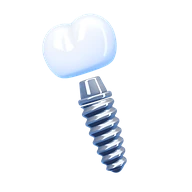
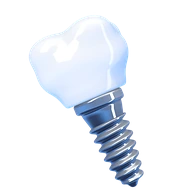
Implante con corona de muela, franja de la especialidad en azul vivo y cierre con invitación a reservar
- La imagen del implante lleva ahora una corona de muela, con sus cúspides y su cuello, en sus tres tamaños.
- La franja "Nuestra especialidad" pasa del azul noche a un azul vivo que se aclara hacia la derecha, con dos
  discos de luz detrás de la imagen y dos ondas claras en la esquina. La imagen va también en 960 px para las
  pantallas de más detalle, y en el celular ya no queda cortada por abajo.
- El pie lo abre una franja que invita a reservar ("Tu salud bucal, en buenas manos"), montada sobre su borde.
  En pantallas anchas la marca va a la izquierda y el contacto y las páginas a su lado.
- Contacto ya no repite la invitación en una tarjeta aparte.

Changed region(s): [[0.125, 0.0938, 0.75, 1.0], [0.3438, 0.125, 0.375, 0.1562], [0.2188, 0.25, 0.25, 0.2812]]

diff --git a/public/css/sitio.css b/public/css/sitio.css
@@ -169,13 +169,33 @@ main { padding: 24px 0 96px; flex: 1 0 auto; }
 main.with-hero { padding-top: 0; background: linear-gradient(180deg, var(--mist) 0, var(--mist) 45%, var(--ground) 100%) no-repeat top / 100% 2400px; }
 main.with-hero > .wrap:first-child .flash { margin: 16px 0; }
 
-/* El pie, en el azul de la portada: la marca y "Reservar cita" arriba; al medio, lo justo para ubicarse y las páginas; lo legal abajo. */
-.site-footer { position: relative; isolation: isolate; overflow: hidden; background: linear-gradient(120deg, #06173a 0%, #0a2757 62%, #0e3c84 100%); color: #c9d6e8; padding: 48px 0; margin-top: 24px; }
-.site-footer::before {
-    content: ""; position: absolute; z-index: -1; width: 720px; height: 720px; right: -220px; bottom: -520px; border-radius: 50%;
-    background: radial-gradient(closest-side, rgb(64 140 240 / .5), transparent);
+/*
+   El pie, en el azul de la portada. Lo abre la invitación a reservar, en una franja de azul vivo que monta sobre su
+   borde; debajo, la marca, lo justo para ubicarse y las páginas; lo legal al final.
+*/
+.site-footer {
+    position: relative; color: #c9d6e8; padding: 0 0 48px; margin-top: 56px;
+    background: radial-gradient(circle 360px at calc(100% - 140px) calc(100% + 160px), rgb(64 140 240 / .5), transparent), linear-gradient(120deg, #06173a 0%, #0a2757 62%, #0e3c84 100%);
 }
 .site-footer .wrap { display: grid; gap: 28px; }
+.footer-cta {
+    --wave: 120px; --swell: 210px;
+    display: grid; grid-template-columns: 56px minmax(0, 1fr); align-items: center; gap: 16px; margin: -56px 0 4px; padding: 20px; border-radius: 24px; color: #fff;
+    background:
+        radial-gradient(circle var(--wave) at calc(100% + 10px) calc(100% + var(--wave) * .42), #5c9df5 calc(var(--wave) - 1px), transparent var(--wave)),
+        radial-gradient(circle var(--swell) at calc(100% - var(--swell) * .18) calc(100% + var(--swell) * .58), rgb(74 141 240 / .5) calc(var(--swell) - 1px), transparent var(--swell)),
+        linear-gradient(100deg, #0a2977 0%, #0c3a9f 46%, #1c62d6 100%);
+    box-shadow: 0 24px 40px -24px rgb(3 12 32 / .8);
+}
+.footer-cta img { width: 72px; max-width: none; height: auto; margin: -8px; filter: drop-shadow(0 8px 10px rgb(0 0 0 / .3)); }
+.site-footer .footer-cta p { margin: 0; color: #e3ecff; }
+.footer-cta strong { display: block; margin-bottom: 4px; text-wrap: balance; font: 700 clamp(1.1875rem, 2.6vw, 1.625rem)/1.2 var(--display); letter-spacing: -.02em; color: #fff; }
+.footer-cta .btn { grid-column: 1 / -1; background: #fff; color: var(--ink); }
+@media (min-width: 720px) {
+    .footer-cta { --wave: 150px; --swell: 260px; grid-template-columns: 84px minmax(0, 1fr) auto; gap: 24px; padding: 26px 40px; border-radius: 28px; }
+    .footer-cta img { width: 112px; margin: -14px; }
+    .footer-cta .btn { grid-column: auto; min-width: 200px; }
+}
 .footer-top { display: flex; flex-wrap: wrap; align-items: center; justify-content: space-between; gap: 16px 24px; }
 .site-footer .name { display: flex; align-items: center; gap: 12px; font-size: clamp(1.25rem, 3.4vw, 1.5rem); font-weight: 800; letter-spacing: -.025em; line-height: 1.1; color: #fff; margin: 0; }
 .site-footer .mark { width: 48px; height: 48px; color: #fff; }
@@ -198,20 +218,31 @@ main.with-hero > .wrap:first-child .flash { margin: 16px 0; }
 .footer-cols { display: grid; gap: 28px; padding-top: 28px; border-top: 1px solid rgb(255 255 255 / .14); }
 .footer-contact p:last-child { margin-bottom: 0; }
 @media (min-width: 720px) { .footer-cols { grid-template-columns: minmax(0, 1.1fr) minmax(0, 1fr); gap: 28px 64px; } }
+/* En pantallas anchas la marca va a la izquierda y lo demás a su lado: el pie no deja media franja vacía. */
+@media (min-width: 960px) {
+    .site-footer .wrap { grid-template-columns: auto minmax(0, 1fr); column-gap: 72px; }
+    .footer-cta, .footer-bottom { grid-column: 1 / -1; }
+    .footer-top { align-self: start; }
+    .footer-cols { padding-top: 0; border-top: 0; }
+}
 
 /* Pie corto donde la página ya dio la dirección, el horario y el WhatsApp: el nombre y las páginas, en una fila. */
-.site-footer.short { padding: 40px 0 40px; }
+.site-footer.short { padding-bottom: 40px; }
 .site-footer.short .wrap { gap: 20px; }
 .site-footer.short .footer-cols { padding-top: 20px; }
 .site-footer.short .footer-cols { display: block; }
 .site-footer.short nav h2 { position: absolute; width: 1px; height: 1px; overflow: hidden; clip: rect(0 0 0 0); white-space: nowrap; }
 .site-footer .socials { margin: 16px 0 0; }
+@media (min-width: 960px) {
+    .site-footer.short .footer-top { align-self: center; }
+    .site-footer.short .footer-cols { padding-top: 0; align-self: center; justify-self: end; }
+    .site-footer.short ul, .site-footer.short .socials { justify-content: flex-end; }
+}
 
 /* Pie mínimo mientras se reserva: nombre, ayuda por WhatsApp y privacidad. */
-.site-footer.minimal { padding: 28px 0; }
+.site-footer.minimal { padding: 28px 0; margin-top: 24px; background: linear-gradient(120deg, #06173a 0%, #0a2757 62%, #0e3c84 100%); }
 .site-footer.minimal .wrap { display: flex; flex-wrap: wrap; align-items: baseline; gap: 8px 24px; }
 .site-footer.minimal .name { font-size: 1.25rem; margin-right: auto; }
-.site-footer.minimal::before { display: none; }
 .site-footer.minimal p { margin: 0; }
 
 /* Tipografía */
@@ -781,26 +812,38 @@ a.rating > span:last-child { text-decoration: underline; text-decoration-color: 
     .how-art { display: block; width: 250px; max-width: none; height: auto; margin: -24px 0 -24px -24px; filter: drop-shadow(0 22px 22px rgb(11 31 58 / .22)); }
 }
 
-/* Nuestra especialidad: una franja azul noche con la imagen del tratamiento, que en pantallas anchas sobresale de la franja. */
+/*
+   Nuestra especialidad: una franja en azul vivo, más claro hacia la derecha, con la imagen del tratamiento, que en
+   pantallas anchas sobresale por arriba. Detrás de la imagen, dos discos de luz; en la esquina, dos ondas claras.
+   Los cuatro adornos se achican juntos en el celular (--k).
+*/
 .feature {
+    --k: .7; --disc: 50% calc(100% - 134px);
+    --wave: calc(190px * var(--k)); --swell: calc(330px * var(--k)); --halo: calc(150px * var(--k)); --ring: calc(230px * var(--k));
     position: relative; overflow: hidden; display: grid; gap: 8px; padding: 28px 24px 0; border-radius: 28px; color: #fff;
-    background: radial-gradient(circle 260px at calc(100% - 100px) 60px, rgb(64 128 214 / .6), transparent), linear-gradient(118deg, #06173a 0%, #0a2757 52%, #0e3c84 100%);
+    background:
+        radial-gradient(circle var(--wave) at calc(100% + 10px) calc(100% + var(--wave) * .42), #5c9df5 calc(var(--wave) - 1px), transparent var(--wave)),
+        radial-gradient(circle var(--swell) at calc(100% - var(--swell) * .18) calc(100% + var(--swell) * .58), rgb(74 141 240 / .5) calc(var(--swell) - 1px), transparent var(--swell)),
+        radial-gradient(circle var(--halo) at var(--disc), rgb(255 255 255 / .1) calc(var(--halo) - 1px), transparent var(--halo)),
+        radial-gradient(circle var(--ring) at var(--disc), rgb(255 255 255 / .07) calc(var(--ring) - 1px), transparent var(--ring)),
+        linear-gradient(100deg, #0a2977 0%, #0c3a9f 46%, #1c62d6 100%);
 }
 .feature > div { display: grid; gap: 8px; justify-items: start; }
 .feature p { margin: 0; }
-.feature .kicker { font-size: .8125rem; font-weight: 700; letter-spacing: .08em; text-transform: uppercase; color: var(--navy-soft); }
+.feature .kicker { font-size: .8125rem; font-weight: 700; letter-spacing: .08em; text-transform: uppercase; color: #c3d8ff; }
 .feature h2 { font-size: clamp(1.75rem, 4.2vw, 2.5rem); font-weight: 750; letter-spacing: -.025em; line-height: 1.12; max-width: 15ch; }
-.feature h2 + p { margin: 6px 0 12px; color: #c9d6e8; max-width: 44ch; }
+.feature h2 + p { margin: 6px 0 12px; color: #e3ecff; max-width: 44ch; }
 .feature .btn { background: #fff; color: var(--ink); }
 /* En los celulares más angostos (320) el botón entra en una línea sin su flecha. */
 @media (max-width: 379px) { .feature .btn svg { display: none; } }
-.feature img { justify-self: center; width: 240px; height: auto; margin: 0 0 -20px; filter: drop-shadow(0 24px 24px rgb(0 0 0 / .35)); }
+.feature img { justify-self: center; width: 240px; height: auto; margin: -4px 0 10px; filter: drop-shadow(0 12px 14px rgb(0 0 0 / .32)); }
 @media (min-width: 640px) {
-    .feature { grid-template-columns: 1.2fr 1fr; align-items: center; padding: 40px; overflow: visible; }
+    /* La imagen sale por arriba; por abajo se recorta con la franja, para que su sombra no caiga fuera. */
+    .feature { --k: .86; --disc: calc(100% - 190px) 50%; grid-template-columns: 1.2fr 1fr; align-items: center; padding: 40px; overflow: visible; clip-path: inset(-240px 0 0 round 0 0 28px 28px); }
     .feature img { width: 300px; margin: -92px 0 -68px; filter: drop-shadow(0 14px 16px rgb(0 0 0 / .32)); }
 }
 @media (min-width: 900px) {
-    .feature { padding: 56px; }
+    .feature { --k: 1; --disc: calc(100% - 290px) 50%; padding: 56px; }
     .feature img { width: 400px; margin: -148px 0 -84px; }
 }
 
@@ -1106,8 +1149,7 @@ a.chip { text-decoration: none; display: inline-flex; align-items: center; }
     body:has(.action-bar) .site-header .btn,
     body:has(.action-bar) .hero .row,
     body:has(.action-bar) .quick-actions .in-bar,
-    body:has(.action-bar) .how-band .section-head .btn,
-    body:has(.action-bar) .footer-top .btn { display: none; }
+    body:has(.action-bar) .how-band .section-head .btn { display: none; }
     body:has(.action-bar) .quick .next-free .more { display: inline-block; }
     body:has(.action-bar) .hero .lead { margin-bottom: 0; }
     body:has(.action-bar) .hero .rating { margin: 14px 0 0; }
@@ -1140,7 +1182,7 @@ a.chip { text-decoration: none; display: inline-flex; align-items: center; }
     .free-times a:hover { background: #d6e3f5; }
     .promo-card:hover { background: var(--surface-strong); }
     .price-list a:hover { box-shadow: inset 0 0 0 2px var(--accent); }
-    .feature .btn:hover { background: var(--surface-strong); }
+    :is(.feature, .footer-cta) .btn:hover { background: var(--surface-strong); }
     .price-list a:hover .name, .promo-card:hover strong { text-decoration: underline; text-underline-offset: .15em; text-decoration-thickness: 1px; }
     .promo-band:hover strong { text-decoration: underline; text-underline-offset: .15em; }
     .faqs summary:hover { color: var(--accent); }

diff --git a/tests/Feature/Http/Controllers/Site/PublicPagesTest.php b/tests/Feature/Http/Controllers/Site/PublicPagesTest.php
@@ -303,13 +303,16 @@ class PublicPagesTest extends TestCase
             ->assertSee('<span class="brand">'.Setting::get('clinic.name').'</span>', false)
             ->assertDontSee('Dentistas en');
 
-        // El pie: la marca con "Reservar cita", las redes cargadas como íconos con su nombre, y lo legal al final.
+        // El pie: lo abre la invitación a reservar; debajo, la marca, las redes cargadas como íconos con su nombre, y lo legal al final.
         $this->get(route('site.team'))
             ->assertOk()
             ->assertSeeInOrder(['class="site-nav"', 'Inicio</a>', 'aria-current="page"', 'Equipo</a>'], false)
             ->assertSeeInOrder([
+                'class="footer-cta"',
+                '<img src="'.SiteArt::url('diente-320').'" alt=""',
+                'Tu salud bucal, en buenas manos',
+                '<a href="'.route('site.booking').'" class="btn">Reservar cita<svg',
                 'class="footer-top"',
-                '<a href="'.route('site.booking').'" class="btn ghost">',
                 'El consultorio',
                 '<a href="https://instagram.com/consultorio" rel="noopener" target="_blank" aria-label="Instagram" title="Instagram"><svg',
                 '<a href="https://tiktok.com/@consultorio" rel="noopener" target="_blank" aria-label="TikTok" title="TikTok"><svg',
@@ -338,8 +341,12 @@ class PublicPagesTest extends TestCase
             ->assertSeeInOrder([
                 'Nuestra especialidad', '<h2 id="especialidad">Implante dental</h2>', 'Reemplaza un diente perdido.',
                 '<a href="'.route('site.treatment', 'implante').'" class="btn">Conocer el tratamiento<svg',
-                '<img src="'.SiteArt::url('implante').'"', 'Quién te atiende',
+                // La imagen va en grande: lleva también su tamaño de más detalle.
+                '<img src="'.SiteArt::url('implante').'" srcset="'.SiteArt::url('implante').' 640w, '.SiteArt::url('implante-960').' 960w"', 'Quién te atiende',
             ], false);
+
+        // Solo las imágenes de especialidad tienen ese tamaño: cualquier otra iría en el suyo.
+        $this->assertStringNotContainsString('srcset', (string) SiteArt::feature(Treatment::factory()->make(['name' => 'Limpieza dental', 'slug' => 'limpieza'])));
 
         // Si el consultorio no publica ese tratamiento, la franja no aparece.
         $implant->update(['is_public' => false]);
@@ -543,7 +550,9 @@ class PublicPagesTest extends TestCase
             ->assertSee('Escríbenos por WhatsApp')
             ->assertSee('Política de privacidad')
             ->assertDontSee('El consultorio')
-            ->assertDontSee('class="footer-contact"', false);
+            ->assertDontSee('class="footer-contact"', false)
+            // Ya está reservando: el pie no lo vuelve a invitar.
+            ->assertDontSee('class="footer-cta"', false);
     }
 
     public function test_only_published_content_reaches_the_web(): void
@@ -784,8 +793,8 @@ class PublicPagesTest extends TestCase
             ->assertSee('<h1 id="contacto">Contacto</h1>', false)
             ->assertSee('Lunes a sábado')
             ->assertSee("3:00\u{A0}p.\u{A0}m. – 7:00\u{A0}p.\u{A0}m.")
-            // "Cómo llegar" sale una vez, bajo el mapa, y el pie no repite la dirección.
-            ->assertSeeInOrder(['class="map"', '>Cómo llegar</a>'], false)
+            // "Cómo llegar" sale una vez, bajo el mapa, y el pie no repite la dirección: lo abre la invitación a reservar.
+            ->assertSeeInOrder(['class="map"', '>Cómo llegar</a>', 'class="footer-cta"', 'Reservar cita<svg'], false)
             ->assertDontSee('class="footer-contact"', false)
             // El correo, que antes solo estaba en el pie, no se pierde.
             ->assertSee('href="mailto:citas@consultorio.test"', false)

diff --git a/resources/views/components/site-layout.blade.php b/resources/views/components/site-layout.blade.php
@@ -13,6 +13,7 @@
 @php
     use App\Services\Web\ClinicInfo;
     use App\Support\Phone;
+    use App\Support\SiteArt;
     use App\Support\SiteIcon;
     use App\Support\TreatmentIcon;
 
@@ -160,12 +161,17 @@
 @else
 <footer @class(['site-footer', 'short' => ! $footerContact])>
     <div class="wrap wide">
+        {{-- El cierre de cada página: la invitación a reservar, en una franja que monta sobre el borde del pie. --}}
+        <div class="footer-cta">
+            <img src="{{ SiteArt::url('diente-320') }}" alt="" width="320" height="320" loading="lazy" decoding="async">
+            <p><strong>Tu salud bucal, en buenas manos</strong> Reserva tu cita hoy y luce una sonrisa saludable.</p>
+            <a href="{{ route('site.booking') }}" class="btn">Reservar cita{{ SiteIcon::svg('arrow-right') }}</a>
+        </div>
         <div class="footer-top">
             <p class="name">
                 <span class="mark">{{ TreatmentIcon::svg('tooth') }}</span>
                 <span class="brand">{{ $name }}@if ($tagline)<small>{{ $tagline }}</small>@endif</span>
             </p>
-            <a href="{{ route('site.booking') }}" class="btn ghost">{{ SiteIcon::svg('calendar') }}Reservar cita</a>
         </div>
         <div class="footer-cols">
             {{-- Lo justo para ubicarse: dónde queda, si está abierto y cómo escribir. El horario completo y el mapa están en Contacto. --}}

diff --git a/app/Support/SiteArt.php b/app/Support/SiteArt.php
@@ -12,7 +12,7 @@ use Illuminate\Support\HtmlString;
 final class SiteArt
 {
     /** Sube cuando se reemplaza alguna imagen: el celular las guarda un mes. */
-    private const VERSION = 2;
+    private const VERSION = 3;
 
     /** @var array<string, string> Ícono del tratamiento (TreatmentIcon) → su imagen. */
     private const BY_ICON = [
@@ -86,6 +86,25 @@ final class SiteArt
             e(self::url($key)),
             $size,
             $lazy ? ' loading="lazy"' : '',
+        ));
+    }
+
+    /**
+     * La imagen de la franja "Nuestra especialidad", que la muestra en grande: va en dos tamaños para que se vea
+     * nítida también en las pantallas de más detalle. Solo las imágenes de especialidad tienen el tamaño grande.
+     * Es un adorno junto al nombre: va sin texto alternativo.
+     */
+    public static function feature(Treatment $treatment): HtmlString
+    {
+        $key = self::keyFor($treatment);
+        $sizes = in_array($key, self::SPECIALTIES, true)
+            ? sprintf(' srcset="%s 640w, %s 960w" sizes="(min-width: 900px) 400px, (min-width: 640px) 300px, 240px"', e(self::url($key)), e(self::url($key.'-960')))
+            : '';
+
+        return new HtmlString(sprintf(
+            '<img src="%s"%s width="640" height="640" alt="" loading="lazy" decoding="async">',
+            e(self::url($key)),
+            $sizes,
         ));
     }
 

diff --git a/resources/views/site/contact.blade.php b/resources/views/site/contact.blade.php
@@ -6,10 +6,4 @@
 <x-site-layout title="Contacto y cómo llegar" :wide="true" :json-ld="$jsonLd" :footer-contact="false"
     :description="'Dirección, horario de atención, WhatsApp y mapa'.($clinic->fullAddress() ? ': '.$clinic->fullAddress() : '').'.'">
     @include('site.partials.contact', ['headingLevel' => 'h1', 'heading' => 'Contacto'])
-
-    <section class="section cta-band">
-        <h2>¿Quieres una cita?</h2>
-        <p>Elige el día y la hora en línea; te confirmamos por WhatsApp.</p>
-        <a href="{{ route('site.booking') }}" class="btn">Reservar cita</a>
-    </section>
 </x-site-layout>

diff --git a/tests/Unit/Support/SiteArtTest.php b/tests/Unit/Support/SiteArtTest.php
@@ -66,6 +66,15 @@ class SiteArtTest extends TestCase
         }
     }
 
+    public function test_every_specialty_image_is_in_the_site_in_its_large_size_for_the_specialty_band(): void
+    {
+        $folder = dirname(__DIR__, 3).'/public/img/3d/';
+
+        foreach (['implante', 'brackets', 'endodoncia', 'corona', 'encia', 'ninos'] as $image) {
+            $this->assertFileExists($folder.$image.'-960.webp');
+        }
+    }
+
     public function test_both_layers_of_the_cover_implant_are_in_the_site_in_their_two_sizes(): void
     {
         $folder = dirname(__DIR__, 3).'/public/img/3d/';

diff --git a/resources/views/site/home.blade.php b/resources/views/site/home.blade.php
@@ -165,7 +165,7 @@
                 @endif
                 <a href="{{ route('site.treatment', $specialty->slug) }}" class="btn">Conocer el tratamiento{{ SiteIcon::svg('arrow-right') }}</a>
             </div>
-            <img src="{{ SiteArt::url(SiteArt::keyFor($specialty)) }}" alt="" width="640" height="640" loading="lazy">
+            {{ SiteArt::feature($specialty) }}
         </section>
     @endif
 
